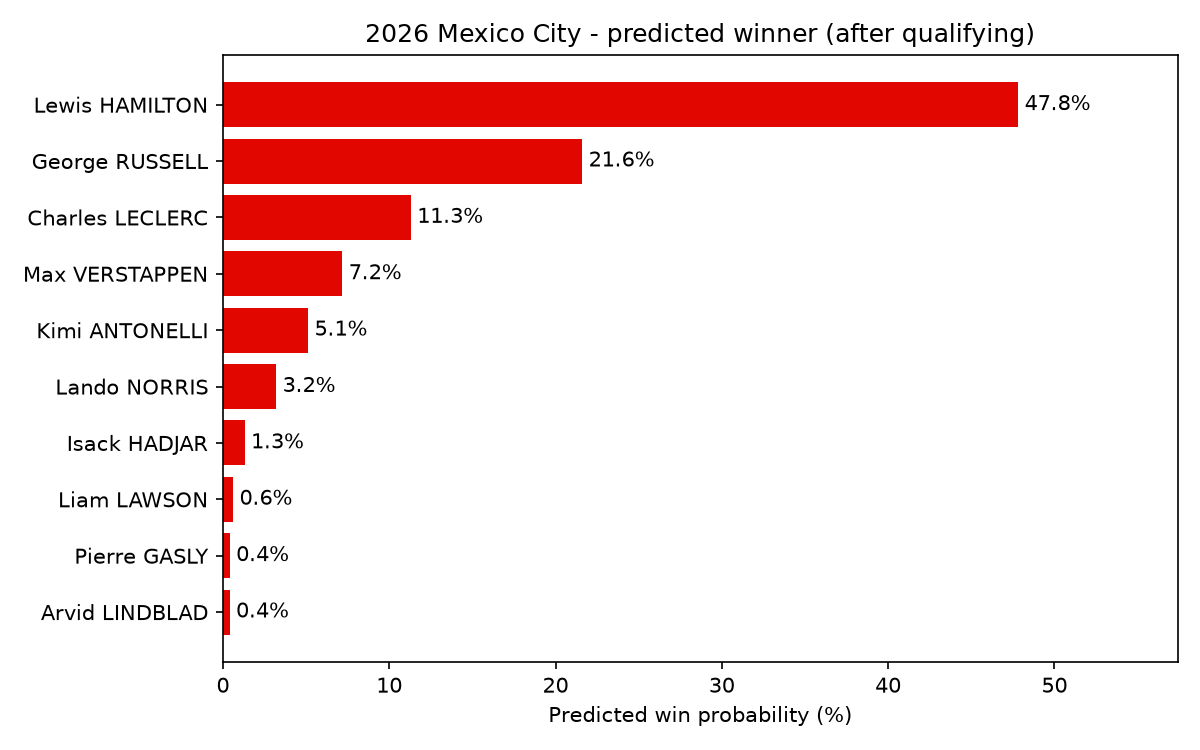
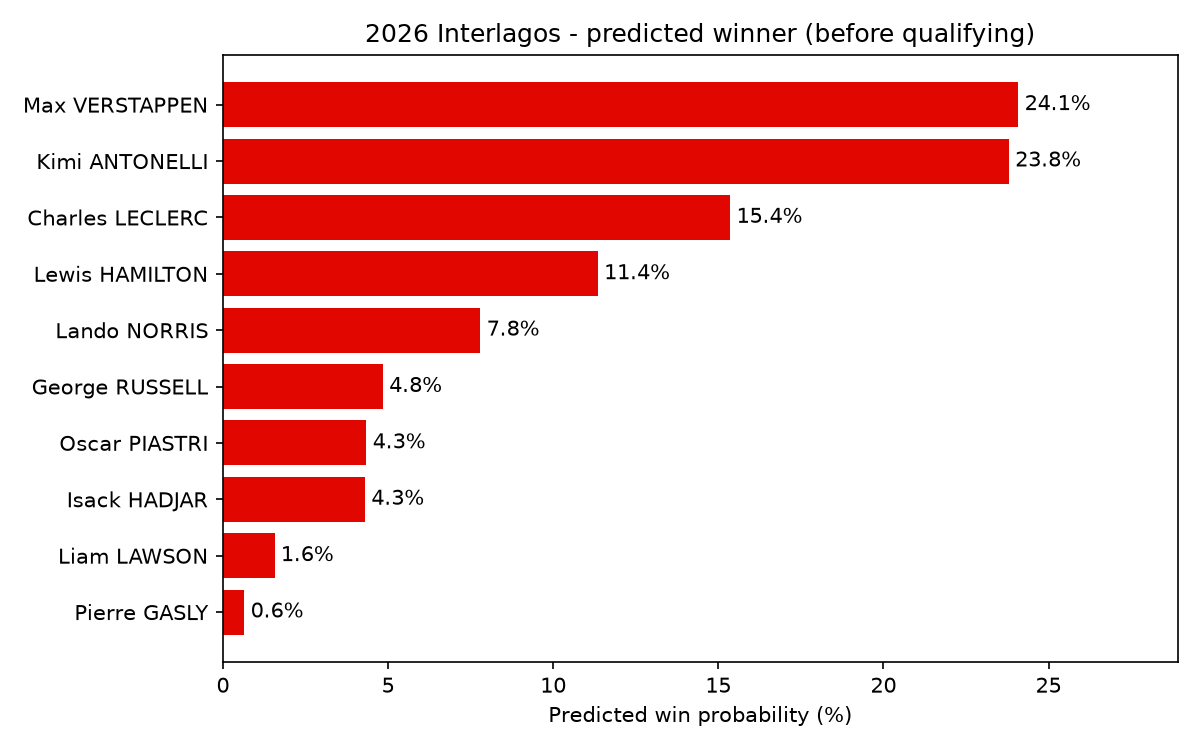
Update live prediction

diff --git a/README.md b/README.md
@@ -14,21 +14,21 @@ There are two models:
 The prediction below updates itself every race weekend. A GitHub Actions job pulls the latest data from the OpenF1 API every 3 hours and switches from the pre- to the post-qualifying model as soon as the qualifying results are published.
 
 <!-- LIVE-PREDICTION:START -->
-## Live prediction: 2026 Mexico City
+## Live prediction: 2026 Interlagos
 
-**Predicted winner: Lewis HAMILTON** (48% chance), predicted after qualifying using the post-qualifying model: grid position, gap to pole, qualifying Elo.
+**Predicted winner: Max VERSTAPPEN** (24% chance), predicted before qualifying using the pre-qualifying model: race Elo, recent qualifying form.
 
 | # | Driver | Team | Win chance |
 |---|---|---|---|
-| 1 | Lewis HAMILTON | Ferrari | 48% |
-| 2 | George RUSSELL | Mercedes | 22% |
-| 3 | Charles LECLERC | Ferrari | 11% |
-| 4 | Max VERSTAPPEN | Red Bull Racing | 7% |
-| 5 | Kimi ANTONELLI | Mercedes | 5% |
+| 1 | Max VERSTAPPEN | Red Bull Racing | 24% |
+| 2 | Kimi ANTONELLI | Mercedes | 24% |
+| 3 | Charles LECLERC | Ferrari | 15% |
+| 4 | Lewis HAMILTON | Ferrari | 11% |
+| 5 | Lando NORRIS | McLaren | 8% |
 
 ![Live prediction](results/live_prediction.png)
 
-_Updated automatically 01 Nov 2026 00:09 UTC_
+_Updated automatically 02 Nov 2026 00:47 UTC_
 <!-- LIVE-PREDICTION:END -->
 
 ## Results
